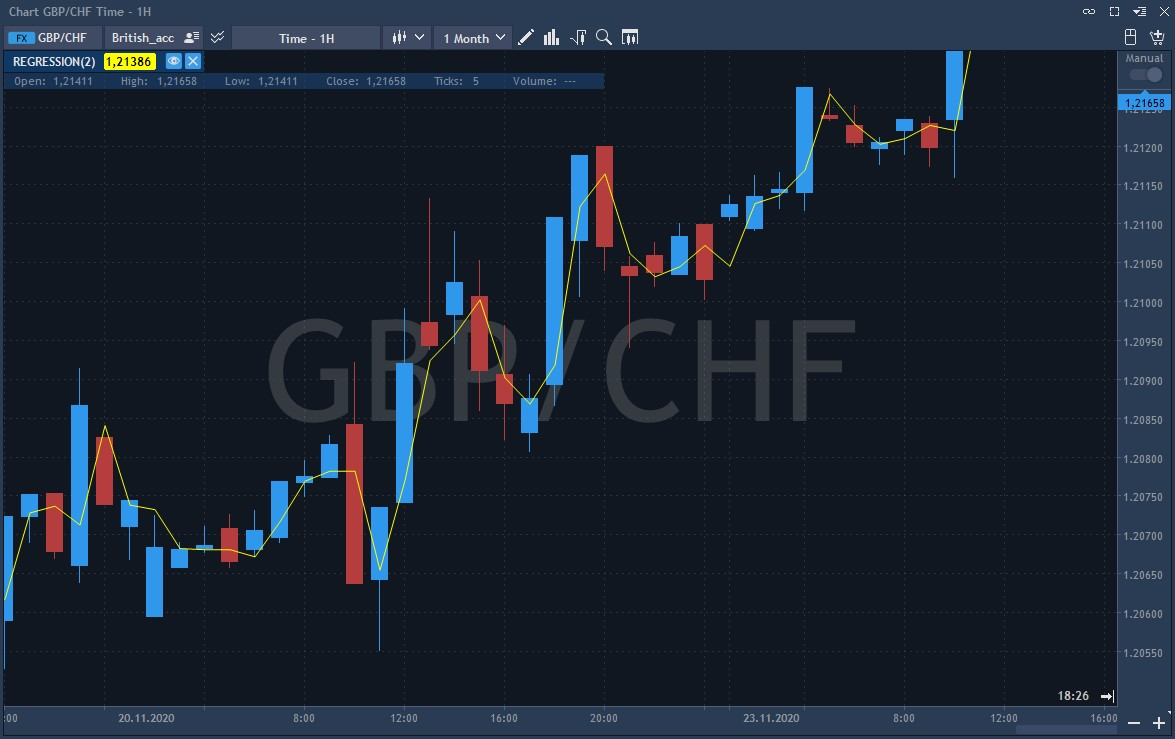
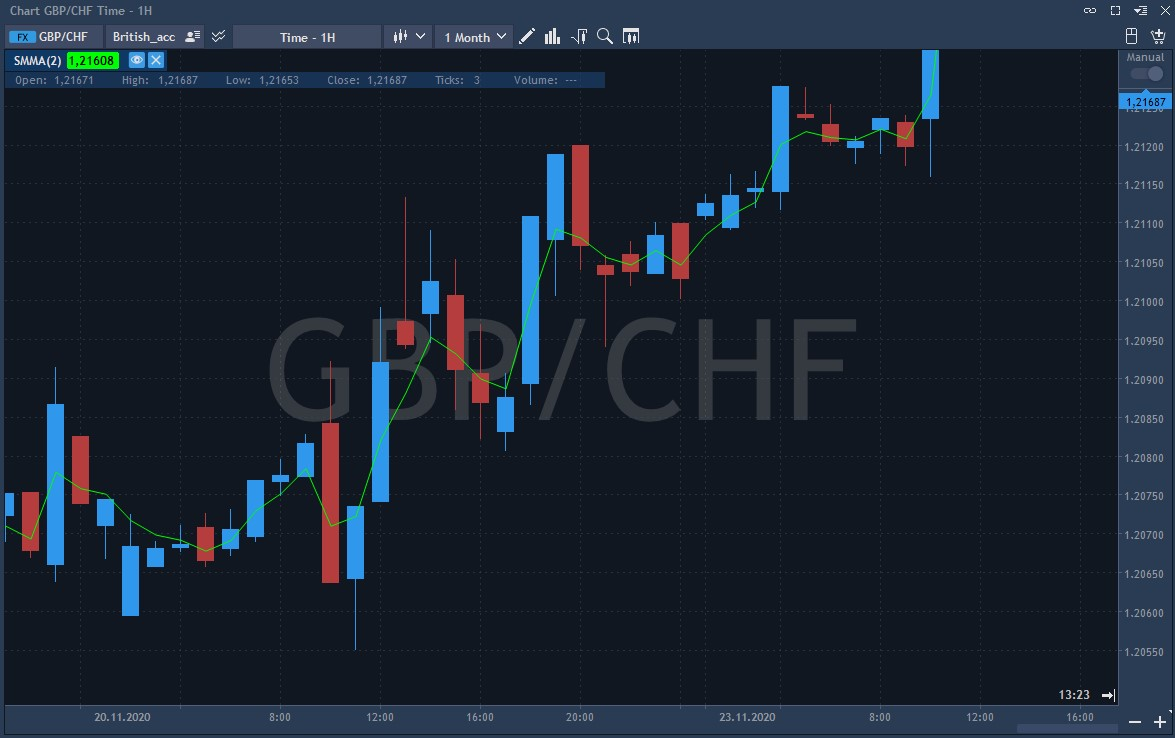
GitBook: [master] 3 pages and 2 assets modified

diff --git a/desktop-application-for-windows/windows/technical-indicators/moving-averages/smma-smoothed-moving-average.md b/desktop-application-for-windows/windows/technical-indicators/moving-averages/smma-smoothed-moving-average.md
@@ -1,0 +1,53 @@
+# SMMA \(Smoothed moving average\)
+
+The Smoothed moving average is a kind of mix of a simple moving average and an exponential moving average, but with a longer period \(about half the EMA period: for example, a 20-period SMMA is almost equal to a 40-period EMA\).
+
+This moving average is used to monitor price changes. The effect of the moving average is to smooth out the price movement so that the long-term trend becomes less volatile and therefore more obvious. When the price rises above the moving average, it indicates that investors are becoming bullish on the commodity. When prices fall lower, it indicates a bearish commodity. In addition, when the moving average crosses the longer-term moving average, research indicates a downward reversal of the market. When the short-term moving average crosses the longer-term moving average, it indicates an upswing in the market. The longer the period of the moving average, the smoother the price movement. Longer moving averages are used to highlight long-term trends.
+
+### Calculation
+
+The first value of the Smoothed moving average is calculated as the simple moving average \(SMA\):
+
+SUM1 = SUM \(CLOSE \(i\), N\)
+
+SMMA1 = SUM1 / N
+
+The second moving average is calculated according to this formula:
+
+SMMA \(i\) = \(SMMA1\*\(N-1\) + CLOSE \(i\)\) / N
+
+Subsequent moving averages are calculated using the following formula:
+
+PREVSUM = SMMA \(i - 1\) \* N
+
+SMMA \(i\) = \(PREVSUM - SMMA \(i - 1\) + CLOSE \(i\)\) / N
+
+Where:
+
+SUM — sum;
+
+SUM1 — total sum of closing prices for N periods; counted from the previous bar;
+
+PREVSUM — smoothed sum of the previous bar;
+
+SMMA \(i-1\) — smoothed moving average of the previous bar;
+
+SMMA \(i\) — smoothed moving average of the current bar \(except for the first one\);
+
+CLOSE \(i\) — current close price;
+
+N — smoothing period.
+
+After arithmetic conversions, the formula can be simplified:
+
+SMMA \(i\) = \(SMMA \(i - 1\) \* \(N - 1\) + CLOSE \(i\)\) / N
+
+### Main parameters
+
+* Period of smoothed moving average – allows specifying the number of periods, over which the indicator is calculated;
+* Sources prices for MA – determines the type of price at which the moving average is calculated, available values: Close, Open, High, Low, Median, Typical, Weighted.
+
+The indicator looks as follows on the chart:
+
+![](../../../../.gitbook/assets/screenshot_1%20%2818%29.jpg)
+

diff --git a/SUMMARY.md b/SUMMARY.md
@@ -57,6 +57,7 @@
         * [PPMA \(Pivot point moving average\)](desktop-application-for-windows/windows/technical-indicators/moving-averages/ppma-pivot-point-moving-average.md)
         * [Regression line](desktop-application-for-windows/windows/technical-indicators/moving-averages/regression-line.md)
         * [SMA \(Simple moving average\)](desktop-application-for-windows/windows/technical-indicators/moving-averages/sma-simple-moving-average.md)
+        * [SMMA \(Smoothed moving average\)](desktop-application-for-windows/windows/technical-indicators/moving-averages/smma-smoothed-moving-average.md)
     * [Trading panels](desktop-application-for-windows/windows/trading-panels/README.md)
       * [Order entry](desktop-application-for-windows/windows/trading-panels/order-entry.md)
       * [Super DOM](desktop-application-for-windows/windows/trading-panels/super-dom.md)

diff --git a/desktop-application-for-windows/windows/technical-indicators/moving-averages/regression-line.md b/desktop-application-for-windows/windows/technical-indicators/moving-averages/regression-line.md
@@ -35,5 +35,5 @@ sum XX – sum of squared price.
 
 The Regression line indicator is actually tomorrow's price prediction plotted today. If prices are consistently above or below the forecast price, expect them to quickly return to more realistic levels. In other words, the Regression line indicator shows where prices "should" trade on a statistical basis, and any excessive deviation from the Regression line is likely to be short-lived. The indicator itself looks as follows on the chart:
 
-![](../../../../.gitbook/assets/screenshot_1%20%2818%29.jpg)
+![](../../../../.gitbook/assets/screenshot_1%20%2819%29.jpg)
 
